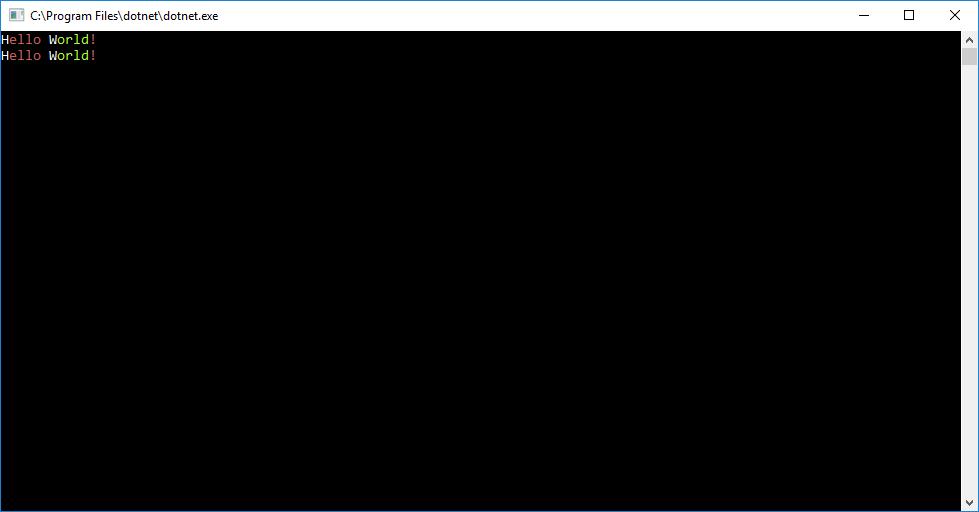
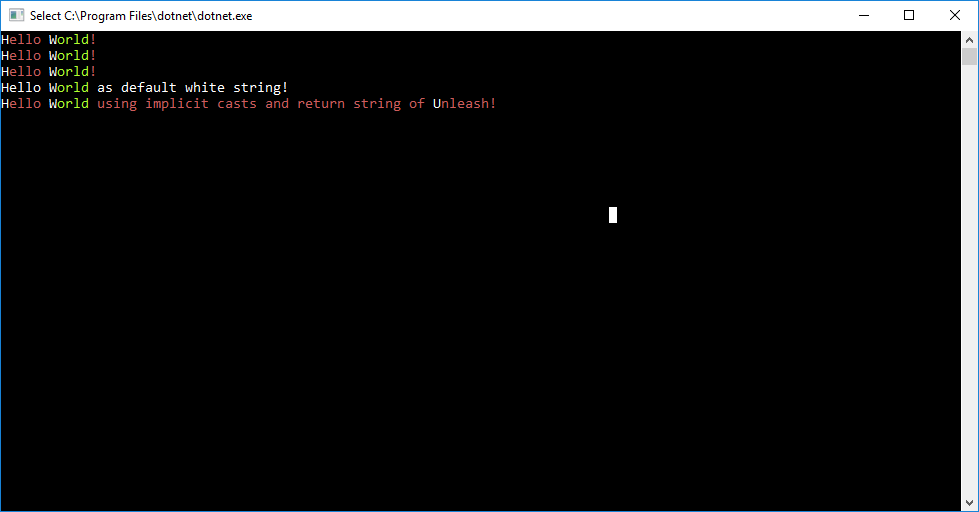
some convenience

Changed region(s): [[0.0, 0.125, 0.5209, 0.2188], [0.0306, 0.0, 0.2451, 0.0625], [0.6129, 0.4062, 0.6435, 0.4375]]

diff --git a/ArtisticPastelPainter/ArtisticPainter.cs b/ArtisticPastelPainter/ArtisticPainter.cs
@@ -1,46 +1,23 @@
 using System.Collections.Generic;
-using System.Text.RegularExpressions;
 
 namespace ArtisticPastelPainter
 {
     public class ArtisticPainter
     {
         private List<IArtisticBrush> _brushes = new List<IArtisticBrush>();
-        public void Unleash(ArtisticString s)
+        public string Unleash(ArtisticString s)
         {
             foreach (var brush in _brushes)
             {
                 brush.Unleash(s);
             }
+            return s;
         }
 
         public ArtisticPainter BeCreativeWith(IArtisticBrush rule)
         {
             _brushes.Add(rule);
             return this;
-        }
-
-        private static List<(string s, bool isMatch)> Split(string input, string regex)
-        {
-
-            var values = new List<(string, bool)>();
-            int pos = 0;
-            foreach (Match m in Regex.Matches(input, regex))
-            {
-                var v = input.Substring(pos, m.Index - pos);
-                if (!string.IsNullOrEmpty(v))
-                {
-                    values.Add((input.Substring(pos, m.Index - pos), false));
-                }
-                values.Add((m.Value, true));
-                pos = m.Index + m.Length;
-            }
-            var vEnd = input.Substring(pos);
-            if (!string.IsNullOrEmpty(vEnd))
-            {
-                values.Add((vEnd, false));
-            }
-            return values;
         }
     }
 }

diff --git a/ArtisticPastelPainter/ArtisticString.cs b/ArtisticPastelPainter/ArtisticString.cs
@@ -22,9 +22,19 @@ namespace ArtisticPastelPainter
             colors.Add((with, from, to));
         }
 
+        public void PaintYourself(ArtisticRegexBrush artisticRegexBrush)
+        {
+            artisticRegexBrush.Unleash(this);
+        }
+
         public static implicit operator string(ArtisticString artisticString)
         {
             return artisticString.ToString();
+        }
+
+        public static implicit operator ArtisticString(string @string)
+        {
+            return new ArtisticString(@string, Color.White);
         }
 
         public override string ToString()

diff --git a/README.md b/README.md
@@ -2,21 +2,33 @@
 credits to the excellent https://github.com/silkfire/Pastel
 
 ![Examples](https://raw.githubusercontent.com/mattiasnordqvist/Artistic-Pastel-Painter/master/example.png)
+
 ```csharp
-var example1 = new ArtisticString("Hello World!", Color.IndianRed);
-example1.PaintYourself(Color.GreenYellow, 6, 10);
-example1.PaintYourself(Color.White, 0, 0);
-example1.PaintYourself(Color.White, 6, 6);
-Console.WriteLine(example1);
+    var bareBones = new ArtisticString("Hello World!", Color.IndianRed);
+    bareBones.PaintYourself(Color.GreenYellow, 6, 10);
+    bareBones.PaintYourself(Color.White, 0, 0);
+    bareBones.PaintYourself(Color.White, 6, 6);
+    Console.WriteLine(bareBones);
 
-var example2 = new ArtisticString("Hello World!", Color.IndianRed);
-new ArtisticPainter()
-    .BeCreativeWith(new ArtisticRegexBrush("World", Color.GreenYellow))
-    .BeCreativeWith(new ArtisticRegexBrush("[A-Z]", Color.White))
-    .Unleash(example2);
+    var withArtisticBrushes = new ArtisticString("Hello World!", Color.IndianRed);
+    withArtisticBrushes.PaintYourself(new ArtisticRegexBrush("World", Color.GreenYellow));
+    withArtisticBrushes.PaintYourself(new ArtisticRegexBrush("[A-Z]", Color.White));
+    Console.WriteLine(withArtisticBrushes);
 
-Console.WriteLine(example2);
-Console.ReadLine();
+    var withReusablePainter = new ArtisticPainter()
+        .BeCreativeWith(new ArtisticRegexBrush("World", Color.GreenYellow))
+        .BeCreativeWith(new ArtisticRegexBrush("[A-Z]", Color.White));
+
+    Console.WriteLine(withReusablePainter.Unleash(new ArtisticString("Hello World!", Color.IndianRed)));
+
+    Console.WriteLine(withReusablePainter.Unleash("Hello World as default white string!"));
+
+    Console.WriteLine(new ArtisticPainter()
+        .BeCreativeWith(new ArtisticRegexBrush("World", Color.GreenYellow))
+        .BeCreativeWith(new ArtisticRegexBrush("[A-Z]", Color.White))
+        .Unleash(new ArtisticString("Hello World using implicit casts and return string of Unleash!", Color.IndianRed)));
+
+    Console.ReadLine();
 ```
 
 // more examples on how to do the same thing here...
